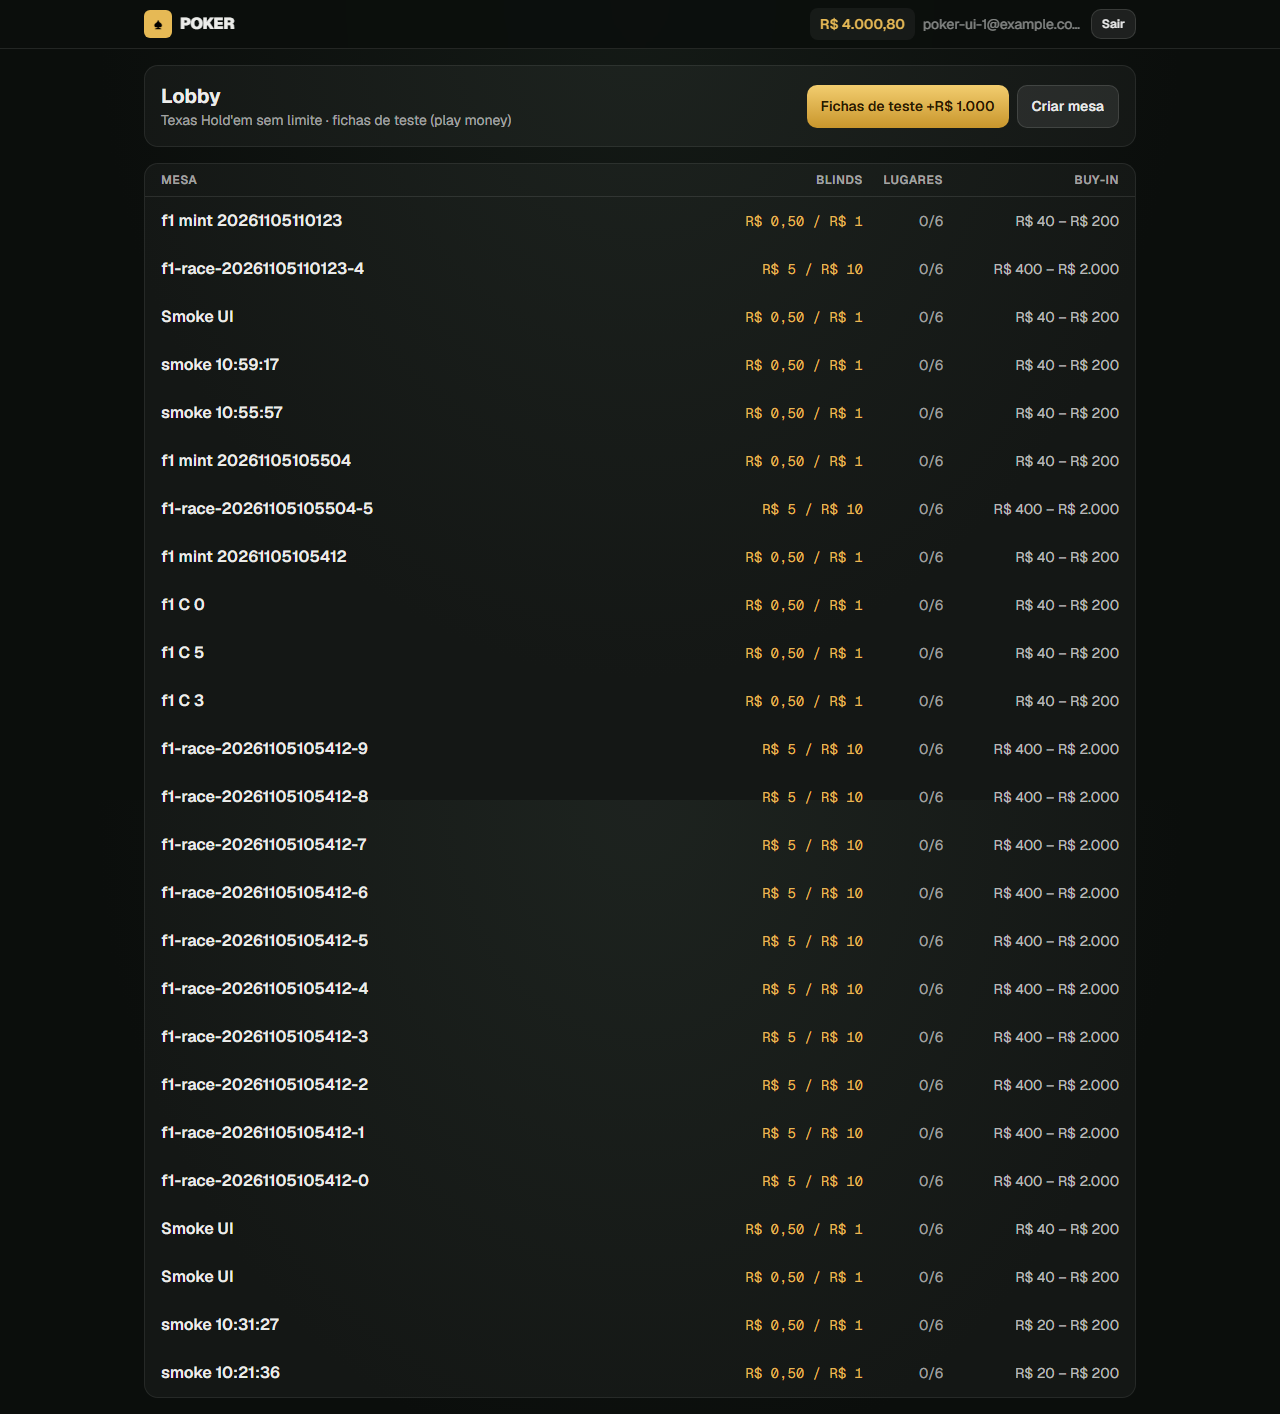
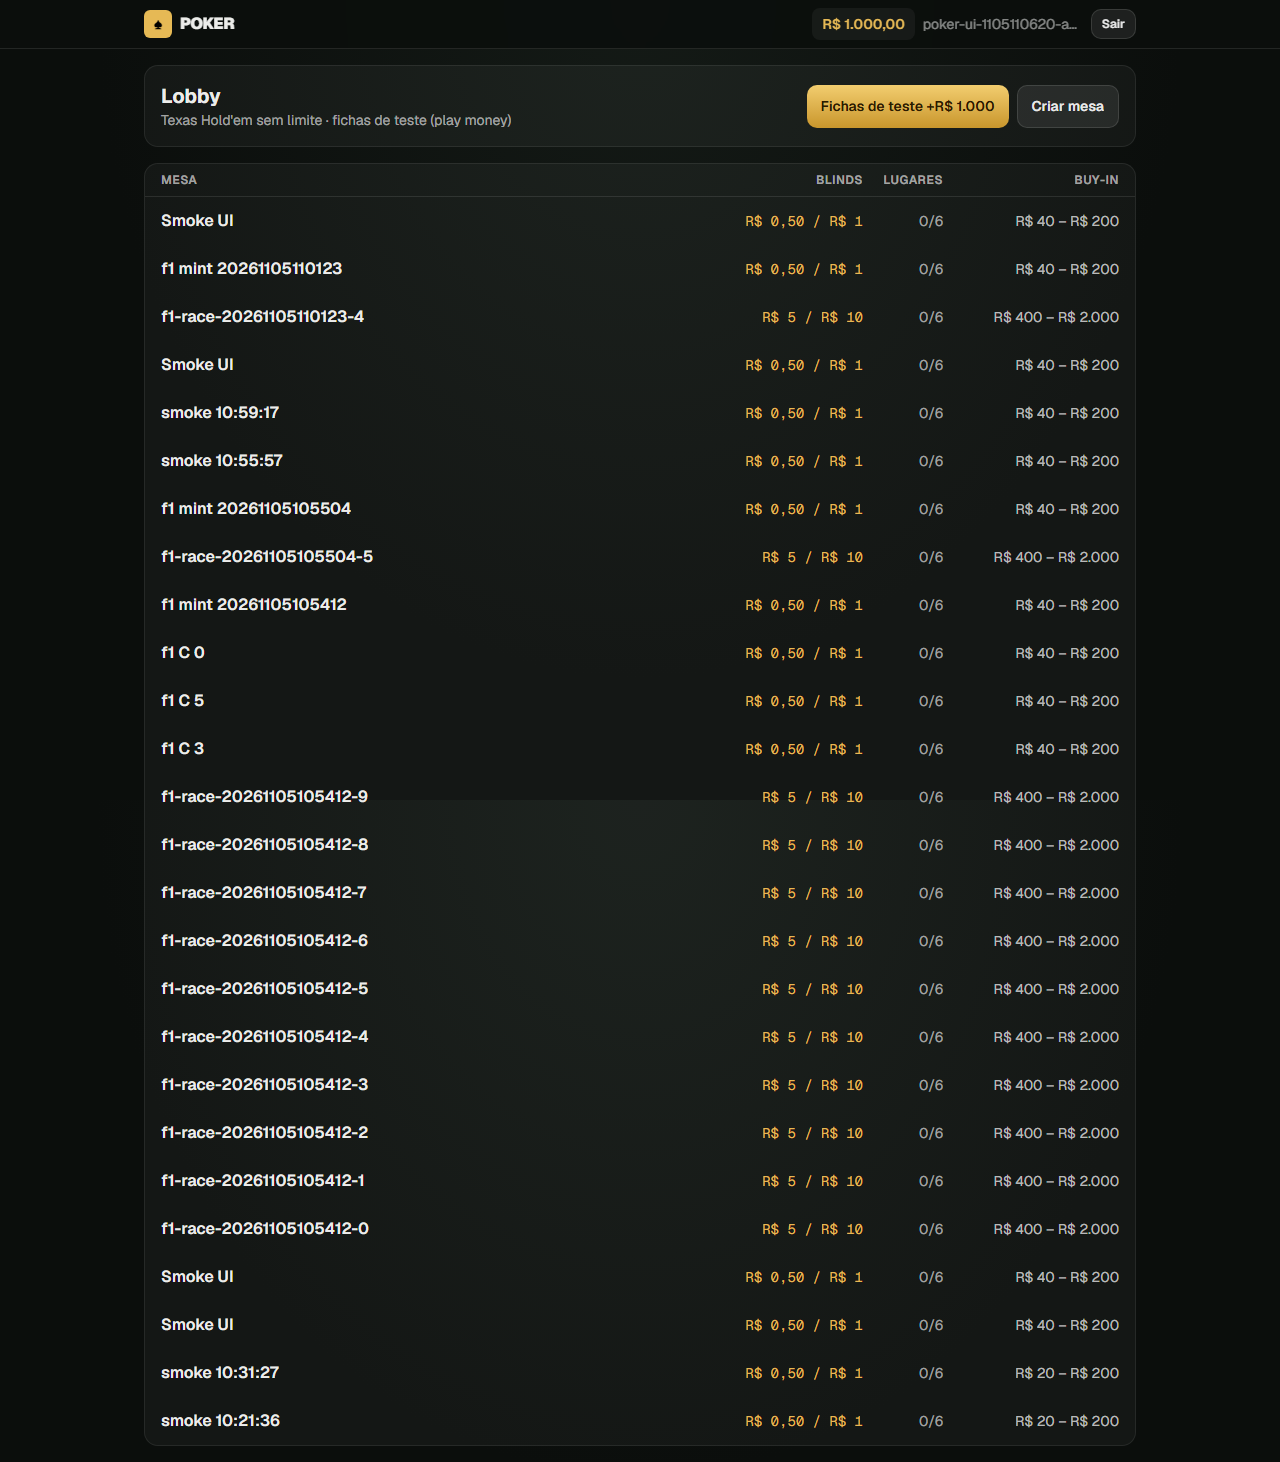
smoke_ui: usuário novo por rodada (limite de 3 mesas/dia)

diff --git a/tools/smoke_ui.py b/tools/smoke_ui.py
@@ -51,7 +51,7 @@ def login_ctx(browser, sess, mobile=False):
 
 def main():
     errs = []
-    a = session("poker-ui-1@example.com"); b = session("poker-ui-2@example.com")
+    run = time.strftime("%m%d%H%M%S"); a = session(f"poker-ui-{run}-a@example.com"); b = session(f"poker-ui-{run}-b@example.com")
     for s in (a, b): api("/api/me/credit", s["access_token"], {})
     t = api("/api/tables", a["access_token"], {"name": "Smoke UI", "sb": 50, "bb": 100, "maxSeats": 6, "rakeBps": 500, "rakeCap": None, "minBuyin": 4000, "maxBuyin": 20000})
     tid = (t.get("table") or {}).get("id") or t.get("id")
